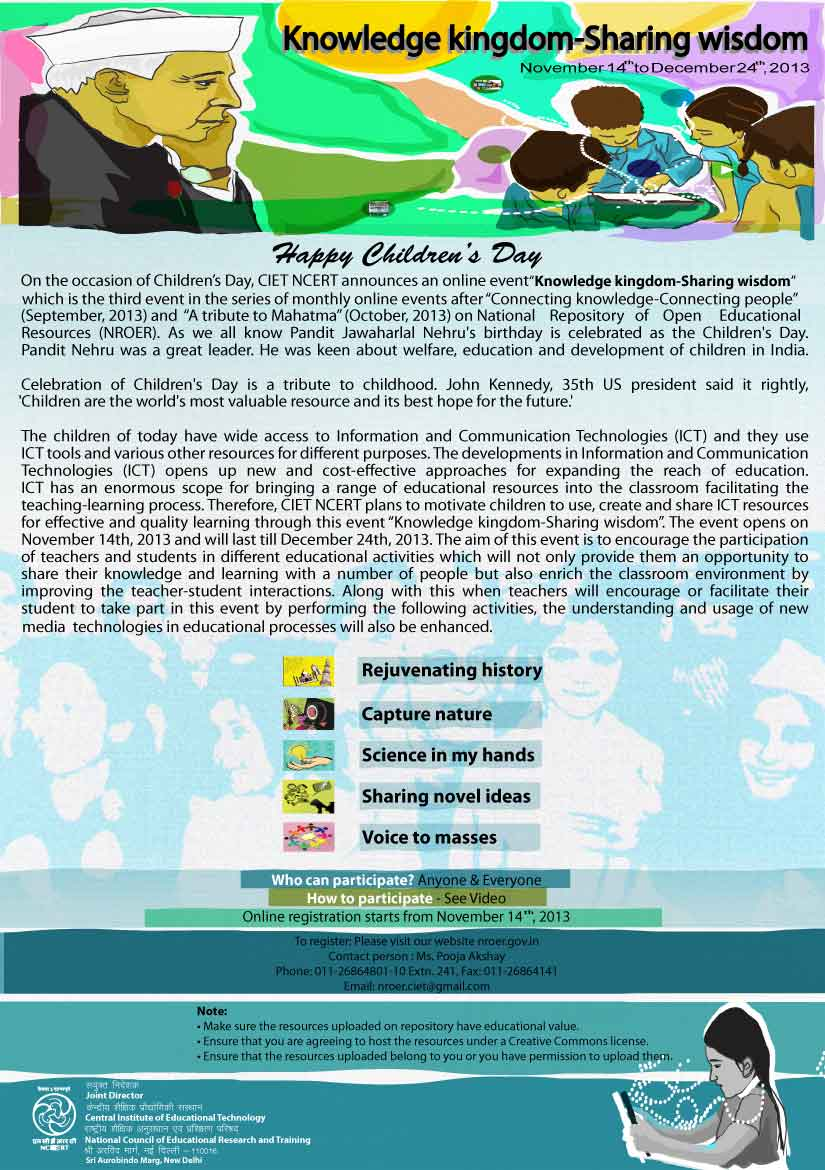
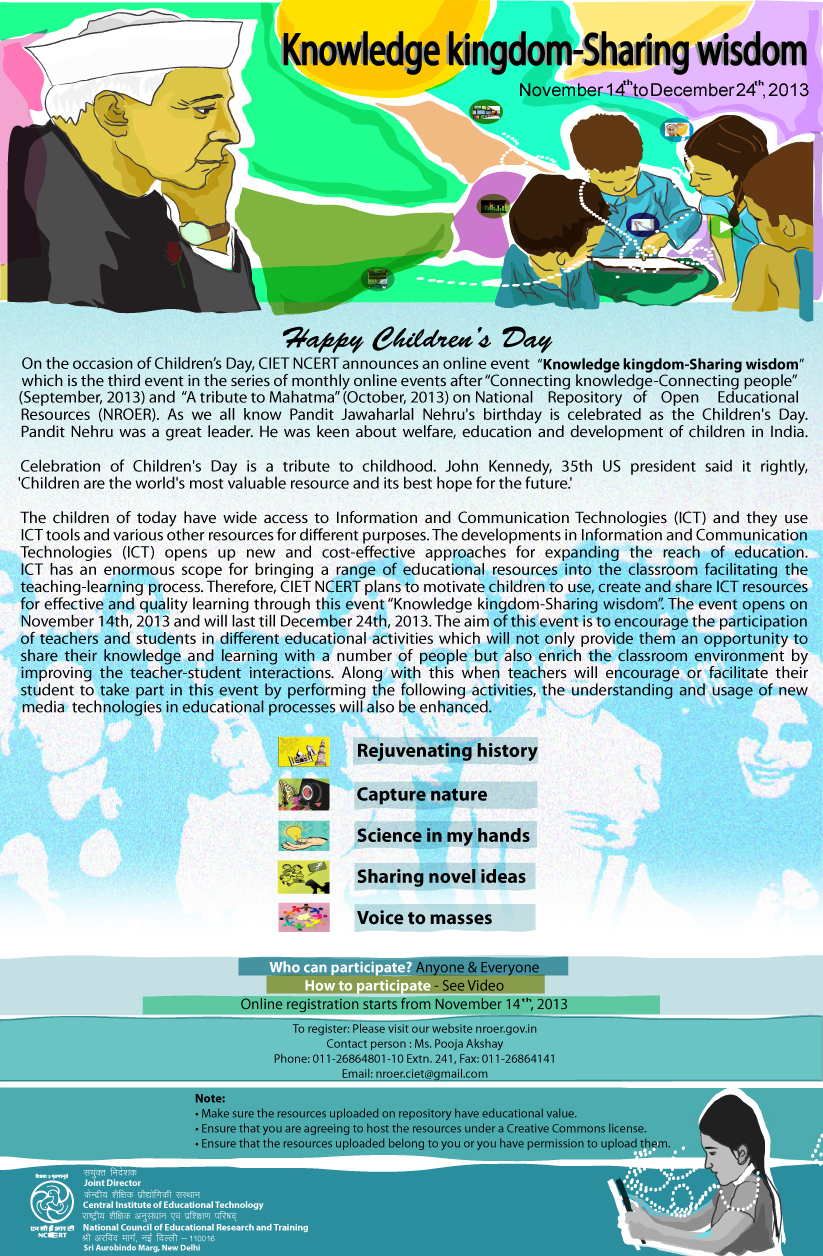
Changes in event pages

diff --git a/gstudio/templates/gstudio/index.html b/gstudio/templates/gstudio/index.html
@@ -939,18 +939,18 @@ National Repository of Open Educational Resources offers resources for all schoo
 
 <div align="center" style="position:relative;top:20px;">
 <a rel="contribute" href="/KnowledgeKingdom" title="Knowledge Kingdom">
-<img class="nroer-contrib-logo" width="400px" height="100px" alt="Knowledge Kingdom"  title="Knowledge Kingdom" src="/static/gstudio/img/14header.jpg" ></a>&nbsp;&nbsp;
+<img class="nroer-contrib-logo" width="380px" height="100px" alt="Knowledge Kingdom Sharing Wisdom"  title="Knowledge Kingdom Sharing Wisdom" src="/static/gstudio/img/14header.jpg" ></a>&nbsp;&nbsp;
 <a rel="contribute" href="/KnowledgeKingdom" title="Knowledge Kingdom">
-<img width="200px" height="100px" alt="Knowledge Kingdom"  title="Knowledge Kingdom" src="/static/gstudio/img/Happy-childrens-day.png" ></a>
+<img width="200px" height="100px" alt="Knowledge Kingdom Sharing Wisdom"  title="Knowledge Kingdom Sharing Wisdom" src="/static/gstudio/img/Happy-childrens-day.png" ></a>
 
 </div>
 
 <div class="marquee" id="mycrawler2" style="margin-top:10px;">
-<a href="/RejuvenatingHistory"><img src="/static/gstudio/img/rejuvenating.jpg" height="80px" width="90px" style="margin:0px 20px 0px 20px;"/></a>
-<a href="/CaptureNature"><img src="/static/gstudio/img/captureinnature.jpg" height="80px" width="90px" style="margin:0px 20px 0px 20px;"/></a>
-<a href="/ScienceinHands"><img src="/static/gstudio/img/scienceinmyhand.jpg" height="80px" width="90px" style="margin:0px 20px 0px 20px;"/></a>
-<a href="/SharingIdeas"><img src="/static/gstudio/img/ideas.jpg" height="80px" width="90px" style="margin:0px 20px 0px 20px;"/></a>
-<a href="/VoicetoMasses"><img src="/static/gstudio/img/voice.jpg" height="80px" width="90px" style="margin:0px 20px 0px 20px;"/></a>
+<a href="/RejuvenatingHistory"><img src="/static/gstudio/img/Rejuvenatinghistory.png" height="110px" width="100px" style="margin:0px 20px 0px 20px;"title="Rejuvenating history" /></a>
+<a href="/CaptureNature"><img src="/static/gstudio/img/Capturenature.png" height="110px" width="100px" style="margin:0px 20px 0px 20px;" title="Capture nature"/></a>
+<a href="/ScienceinHands"><img src="/static/gstudio/img/Scienceinmyhand.png" height="110px" width="100px" style="margin:0px 20px 0px 20px;" title="Science in my hands"/></a>
+<a href="/SharingIdeas"><img src="/static/gstudio/img/Sharingnovelideas.png" height="110px" width="100px" style="margin:0px 20px 0px 20px;" title="Sharing novel ideas"/></a>
+<a href="/VoicetoMasses"><img src="/static/gstudio/img/Voicetomasses.png" height="110px" width="100px" style="margin:0px 20px 0px 20px;" title="Voice to masses"/></a>
 
 </div>
 
@@ -958,8 +958,8 @@ National Repository of Open Educational Resources offers resources for all schoo
 marqueeInit({
 	uniqueid: 'mycrawler2',
 	style: {
-		'margin-left': '20px',
-		'width': '640px',
+		'margin-left': '30px',
+		'width': '630px',
 		'height': '120px'
 	},
 	inc: 5, //speed - pixel increment for each iteration of this marquee's movement

diff --git a/gstudio/templates/gstudio/knowledgekingdom.html b/gstudio/templates/gstudio/knowledgekingdom.html
@@ -29,14 +29,28 @@
 <div>
 
 <div align="center">
+<!--
 <img src="/static/gstudio/img/14Poster.jpg" width="725" height="1035" border="0" usemap="#Map" />
 <map name="Map" id="Map">
-<area shape="rect" coords="247,581,477,606" href="/RejuvenatingHistory" alt="Rejuvenating History" />
-<area shape="rect" coords="247,618,477,645" href="/CaptureNature" alt="Capture nature" />
-<area shape="rect" coords="247,655,477,680" href="/ScienceinHands" alt="Science in my hands" />
-<area shape="rect" coords="247,691,477,718" href="/SharingIdeas" alt="Sharing novel ideas" />
-<area shape="rect" coords="249,727,475,753" href="/VoicetoMasses" alt="Voice to masses" />
+<area shape="rect" coords="247,581,477,606" href="/>
+<area shape="rect" coords="247,618,477,645" href=" />
+<area shape="rect" coords="247,655,477,680" href=" />
+<area shape="rect" coords="247,691,477,718" href=" />
+<area shape="rect" coords="249,727,475,753" href=" />
+
+-->
+
+
+
+<div style="position:relative;" id="knowledge_event"><img src="/static/gstudio/img/14Poster.jpg" width="725px" height="1035px">
+  <a href="/RejuvenatingHistory" alt="Rejuvenating History"  style="top:625px;left:245px;height:22px;"></a>
+  <a  href="/CaptureNature" alt="Capture nature" style="top:660px;left:245px;height:22px;"></a>
+  <a  href="/ScienceinHands" alt="Science in my hands" style="top:695px;left:245px;height:19px;"></a>
+  <a  href="/SharingIdeas" alt="Sharing novel ideas" style="top:727px;left:245px;height:22px;"></a>
+  <a  href="/VoicetoMasses" alt="Voice to masses" style="top:760px;left:245px;height:22px;"></a>
 </div>
+</div>
+
 
 </div>
 

diff --git a/demo/static/gstudio/css/home/style.css b/demo/static/gstudio/css/home/style.css
@@ -110,6 +110,19 @@ body {
 	height:130px;
 	
 }
+#knowledge_event a
+	{	
+		position:absolute;z-index:1000;width:225px;display:block;-webkit-transition: all 0.1s ease-in-out;
+-moz-transition: all 0.1s ease-in-out;
+-o-transition: all 0.1s ease-in-out;
+transition: all 0.1s ease-in-out;
+	}
+	#knowledge_event a:hover
+	{	
+		border:3px solid #FF9900;-moz-box-shadow:    3px 3px 5px 6px #777;
+  -webkit-box-shadow: 3px 3px 5px 6px #777;
+  box-shadow:         3px 3px 5px 6px #777; -webkit-transform: scale(1.01);
+	}
 .event_2
 {
 	background:url('http://nroer.gov.in/static/img/ciet.ncert/bg_2t.jpg')repeat-x 0px 30px;
